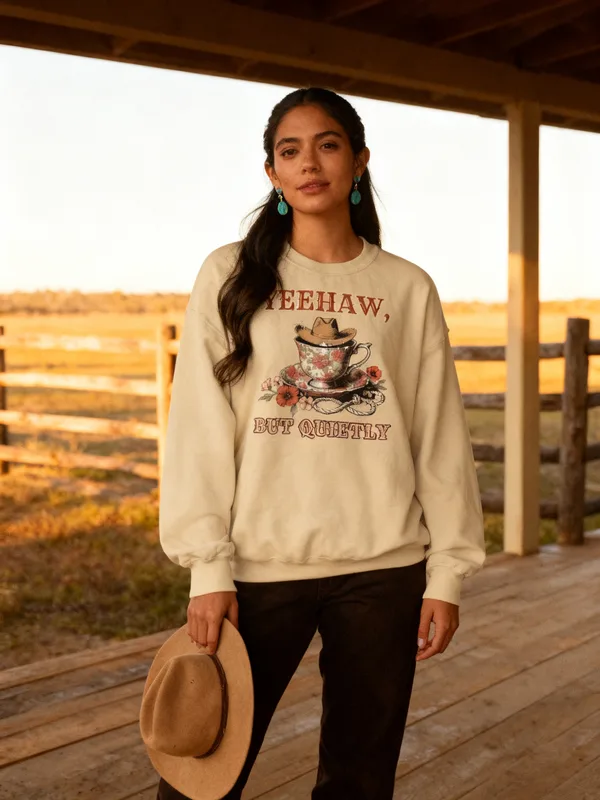
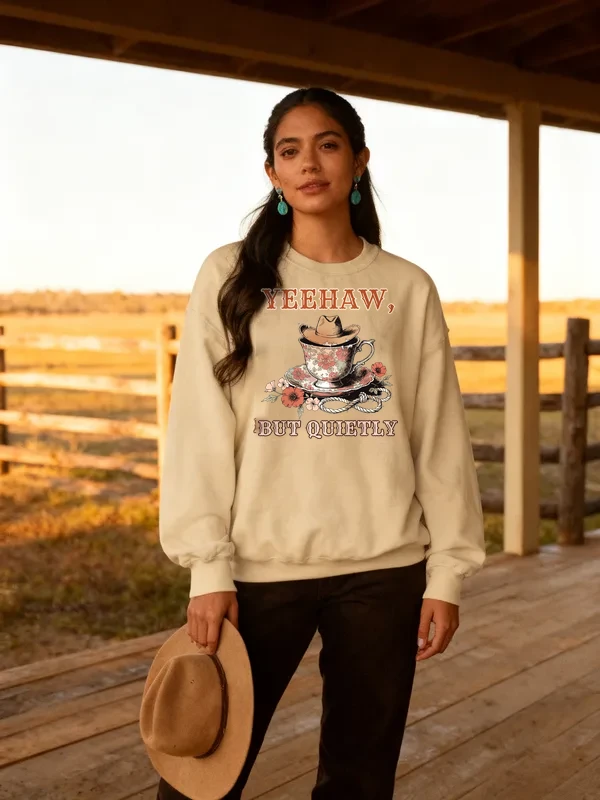
[B] review 396 Yeehaw but Quietly crewneck REDO: composite cover
Claude-Session: https://claude.ai/code/session_01MJ4qTtvktDr5hbbbYk9fb9

Changed region(s): [[0.42, 0.3438, 0.66, 0.5625]]

diff --git a/scripts/cover-composite.py b/scripts/cover-composite.py
@@ -1,0 +1,59 @@
+#!/usr/bin/env python3
+"""R6.9 composite: fit the exact print onto a cover's chest, multiply-shaded by the photo, hair kept on top.
+Usage: cover-composite.py cover.webp print.png out.webp x0 y0 w [--hair-below-x N] [--dark N]
+(x0,y0,w = where the print's left, top and width land on the cover, in cover pixels; the old print is inpainted away first)"""
+import sys, numpy as np, cv2
+from PIL import Image
+a = sys.argv[1:]
+cov, prt, out = a[0], a[1], a[2]
+x0, y0, w = int(a[3]), int(a[4]), int(a[5])
+dark = int(a[a.index('--dark') + 1]) if '--dark' in a else 85
+hx = int(a[a.index('--hair-below-x') + 1]) if '--hair-below-x' in a else x0 + 20
+c = np.array(Image.open(cov).convert('RGB')).astype(np.float32)
+p = Image.open(prt).convert('RGBA')
+h = round(w * p.height / p.width)
+p = p.resize((w, h), Image.LANCZOS)
+pa = np.array(p).astype(np.float32)
+H, W = c.shape[:2]
+m = 24
+X0, Y0, X1, Y1 = max(0, x0 - m), max(0, y0 - m), min(W, x0 + w + m), min(H, y0 + h + m)
+reg = c[Y0:Y1, X0:X1]
+lum = reg.mean(2)
+# hair = dark pixels connected to the hair mass outside the print box
+dk = (lum < dark).astype(np.uint8)
+n, lab = cv2.connectedComponents(dk)
+hair = np.zeros_like(dk)
+for i in range(1, n):
+    comp = lab == i
+    ys, xs = np.nonzero(comp)
+    if xs.min() + X0 < hx and comp.sum() > 40:
+        hair[comp] = 1
+hair = cv2.dilate(hair, np.ones((3, 3), np.uint8))
+# hair tip lying over the print box is repainted as garment (hair stays behind the shoulder), not kept on top
+keep = hair.copy(); keep[:, max(0, x0 - X0 - 3):] = 0
+over = hair.copy(); over[:, :max(0, x0 - X0 - 3)] = 0
+# old print mask: pixels far from the garment tone
+garment = np.median(reg.reshape(-1, 3), axis=0)
+base = cv2.GaussianBlur(c, (0, 0), 25)[Y0:Y1, X0:X1]
+diff = np.abs(reg - np.median(reg.reshape(-1, 3), 0)).max(2)
+old = (((diff > 28) & (hair == 0)) | (over > 0)).astype(np.uint8)
+old[:m, :] = 0; old[-m:, :] = 0; old[:, :m] = 0; old[:, -m:] = 0
+old = cv2.dilate(old, np.ones((5, 5), np.uint8))
+clean = cv2.inpaint(reg.astype(np.uint8), old, 6, cv2.INPAINT_TELEA).astype(np.float32)
+clean = np.where(keep[..., None] > 0, reg, clean)
+# shading from the cleaned garment
+sh = cv2.GaussianBlur(clean, (0, 0), 3)
+sh = sh / np.maximum(np.median(sh.reshape(-1, 3), 0), 1)
+sh = np.clip(sh, 0.5, 1.15)
+alpha = np.zeros(reg.shape[:2], np.float32); rgb = np.zeros_like(reg)
+ox, oy = x0 - X0, y0 - Y0
+ph, pw = pa.shape[:2]
+alpha[oy:oy + ph, ox:ox + pw] = pa[..., 3] / 255
+rgb[oy:oy + ph, ox:ox + pw] = pa[..., :3]
+pr = np.clip(rgb * sh, 0, 255)
+res = clean * (1 - alpha[..., None]) + pr * alpha[..., None]
+# hair back on top (feathered)
+hm = cv2.GaussianBlur(keep.astype(np.float32), (0, 0), 0.8)[..., None]
+res = res * (1 - hm) + reg * hm
+c[Y0:Y1, X0:X1] = res
+Image.fromarray(np.clip(c, 0, 255).astype(np.uint8)).save(out, quality=90)

diff --git a/docs/intake-log.md b/docs/intake-log.md
@@ -1,4 +1,5 @@
 RUNNING lane B since 2026-10-17 23:29 UTC
+2026-10-17 23:32 UTC — [B] REVIEW #396 Yeehaw, but Quietly crewneck REDO (R6.9 composite cover, no fal).
 2026-10-17 23:21 UTC — [E] #356 Saturday Night Rodeo hoodie built except cover (art, sync 12/12, mockups, copy done); cover attempt 2 waits for fal cap reset 00:00 UTC. fal $15.96 of $16. Lock released.
 2026-10-17 23:23 UTC — [D] Director run: inbox 1 ('turkey hoodie' collision again: Long Beard Short Temper camo hoodie now targets 'turkey hunting' 9,900 / KD 22, SEO title + meta + first sentence in Shopify, map updated, audit PASS). Reviewed 7 REVIEW sheets: 6 LIVE (#281 Doorbusters tee, #327 Short Legs Long Opinions hoodie, #415 Sweet Until Further Notice hoodie, #461 Expert in Après crew, #487 University of Staying In crew, #493 Calm Face Loud Brain crew; all ACTIVE + Online Store/Headless/Google & YouTube, audit PASS, all 6 pages 200; doubled '8 oz' FAQ sentence fixed on #487/#493), 1 REDO (#474: 'Saturday, 7 a.m.' unreadable on Sand, needs the brown keyline). #487 to reference/best. 3 new briefs #512 golden retriever crew (B), #513 dachshund crew (B), #514 pitbull crew (E). Lane C left at 9 READY: every hoodie phrase swept this run (capybara, welding, pit bull, bear, running, cat, camping, hiking, nurse) was either claimed or failed the 500+ favorite proof (capybara top 467, welder hoodie top 465); next run sweeps dog/cat hoodie long-tails and hoodie twins of LIVE winners. Telegram sent. Lock released.
 2026-10-17 23:30 UTC — [A] Run summary: to REVIEW (both REDOs, no cover generation, composites per R6.9): #474 Feed Store Fashion Week hoodie (illustration to 72% of print width at FW 1500, new mockups, braid clear of the F), #327 Dachshund Short Legs Long Opinions hoodie (stubby-legged art try 2, new copy to match, couple cover composited). Audit: 0 price errors, 1 keyword collision not mine. fal $15.86 of $16: the remaining lane A READY items (273-284, 319, 332/333, 361, 387-391, 454-470, 491, 497, 500) need new fal art, so none started. Lock released.

diff --git a/docs/pipeline/396-western-crew-yeehaw-responsibly.md b/docs/pipeline/396-western-crew-yeehaw-responsibly.md
@@ -1,4 +1,4 @@
-status: REDO
+status: REVIEW
 shopify: gid://shopify/Product/15363411345712
 lane: B
 type: new
@@ -35,3 +35,4 @@ kd: 55
   1. R6.9 (hair): her hair covers the Y, so the cover reads EEHAW. Composite the exact print from the Sand mockup onto the cover's chest in print-prep (the Doe-Eyed method), with the hair layered behind the shoulder, then read YEEHAW, / BUT QUIETLY letter by letter. No new fal call needed.
   2. Keep YEEHAW, BUT QUIETLY (the brief's later rewrite is withdrawn).
   3. (Withdrawn by the director: "Original art, made for Graphic Tees Co." is the SOP line for ai-art and stays.)
+- 2026-10-17 23:45 UTC builder [B]: REDO 1 done (R6.9 composite, no fal): scripts/cover-composite.py fitted the exact yq-print.png onto her chest (140 px wide on the 600 px cover, old print inpainted away, multiply shading from the photo), the hair tip that lay over the Y repainted as sweatshirt so the hair stays behind the shoulder. Read YEEHAW, / BUT QUIETLY letter by letter: all letters clear. Person, scene, garment unchanged. Sheet docs/review/396.jpg updated. Set REVIEW.
